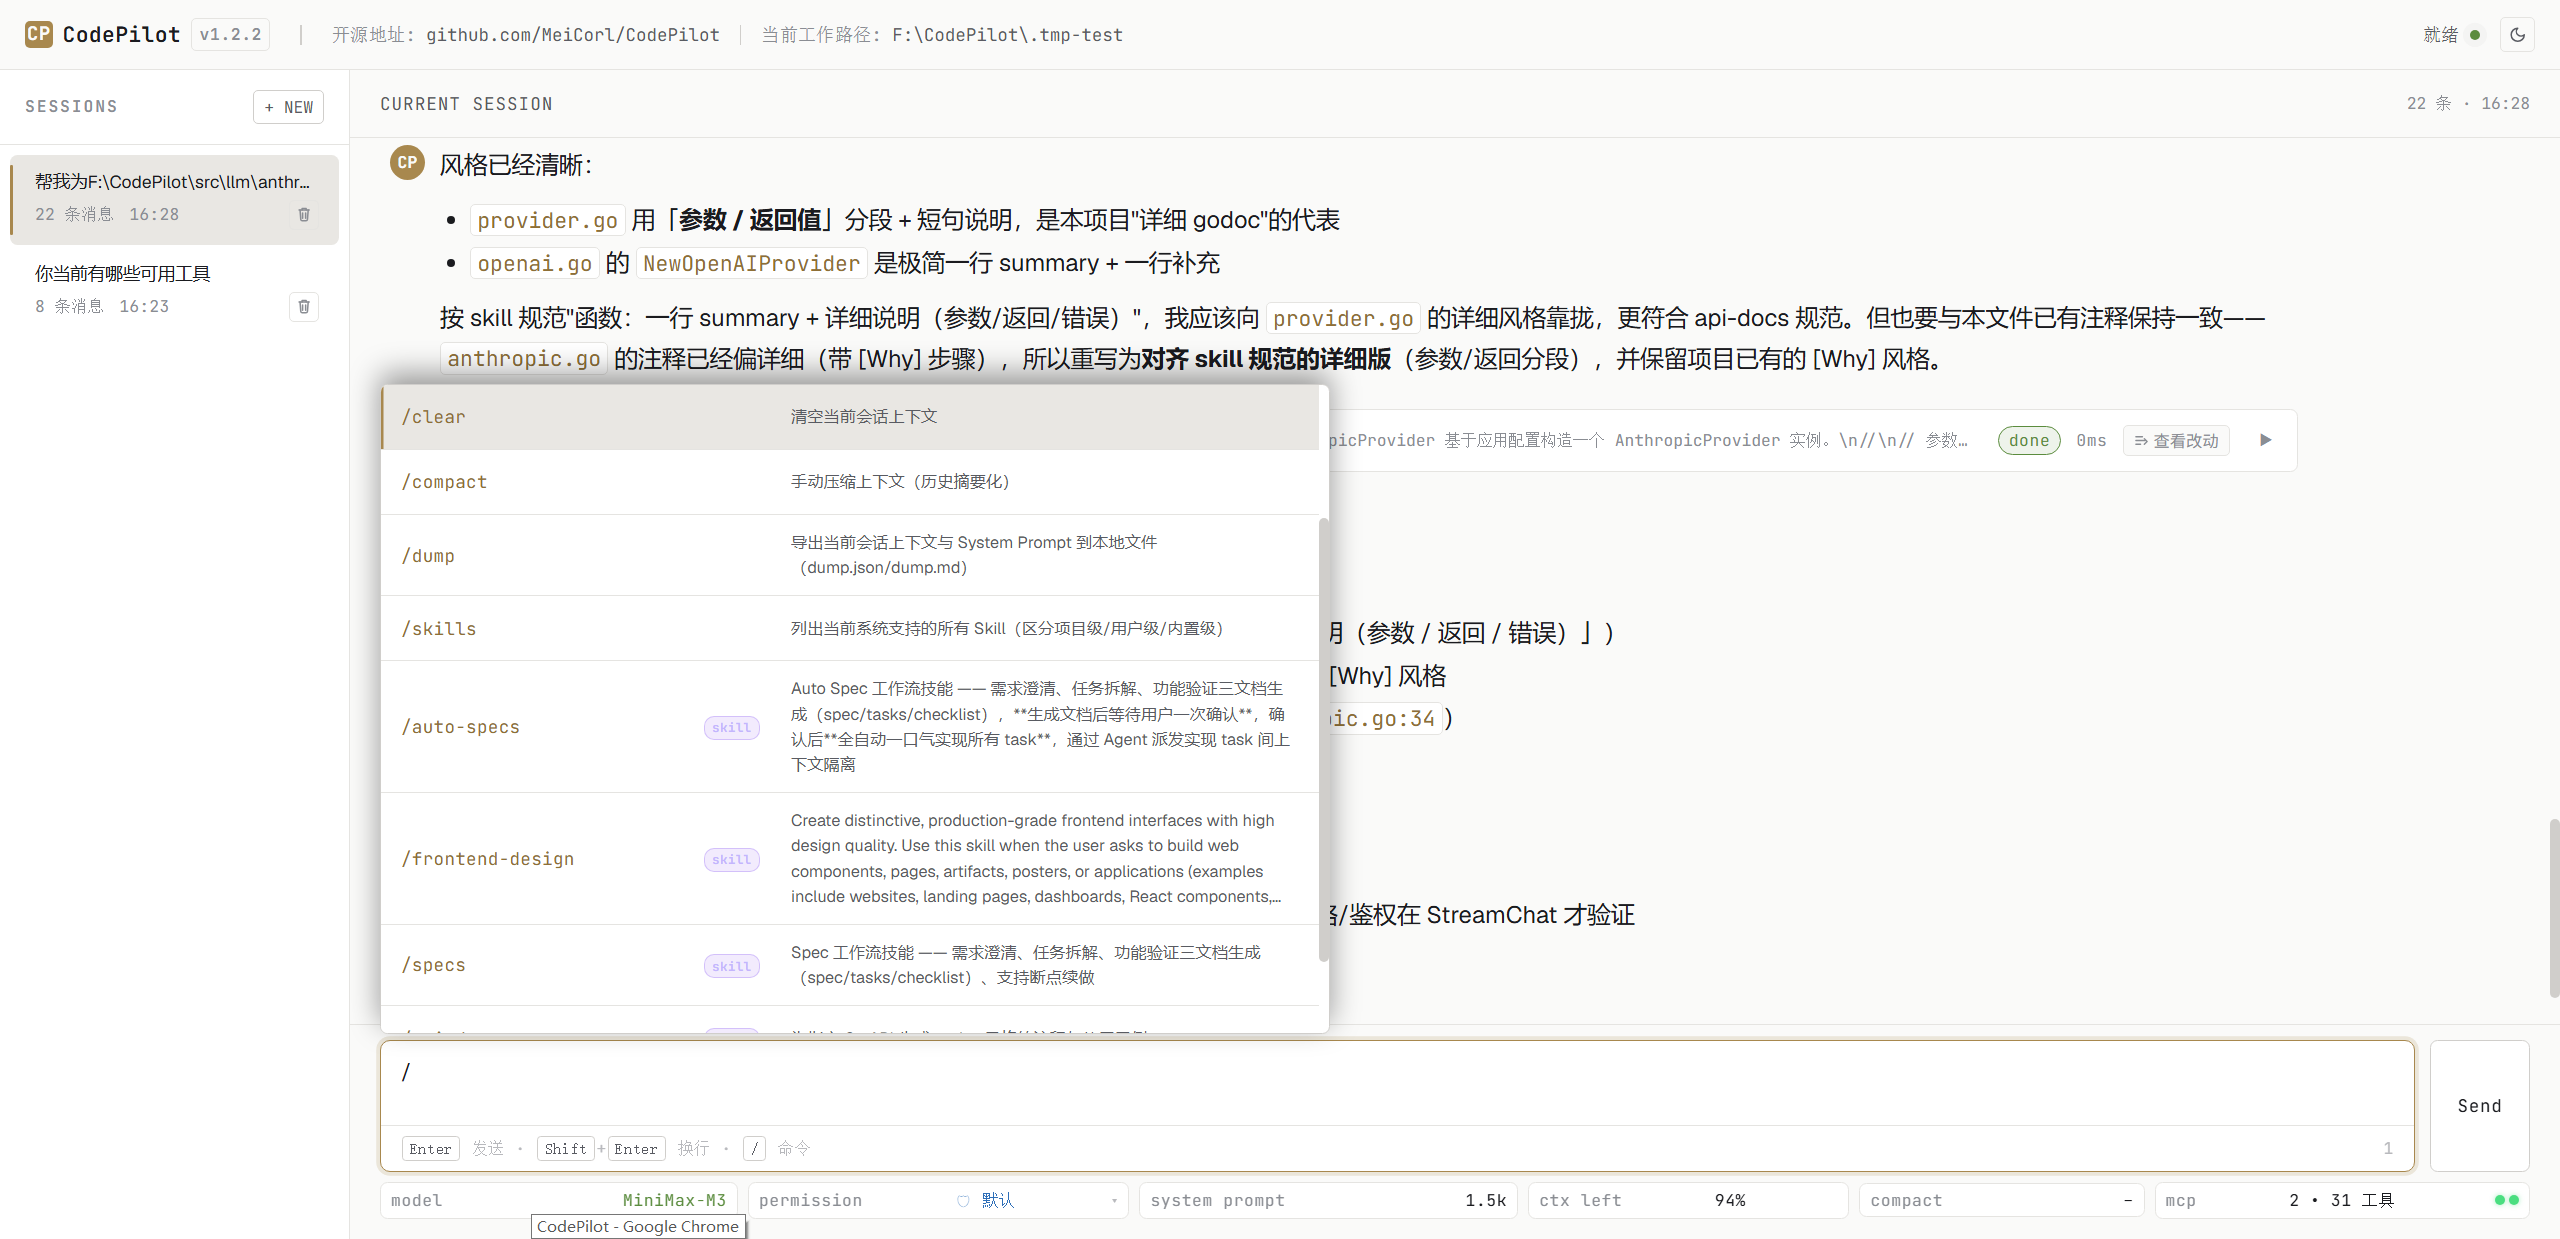
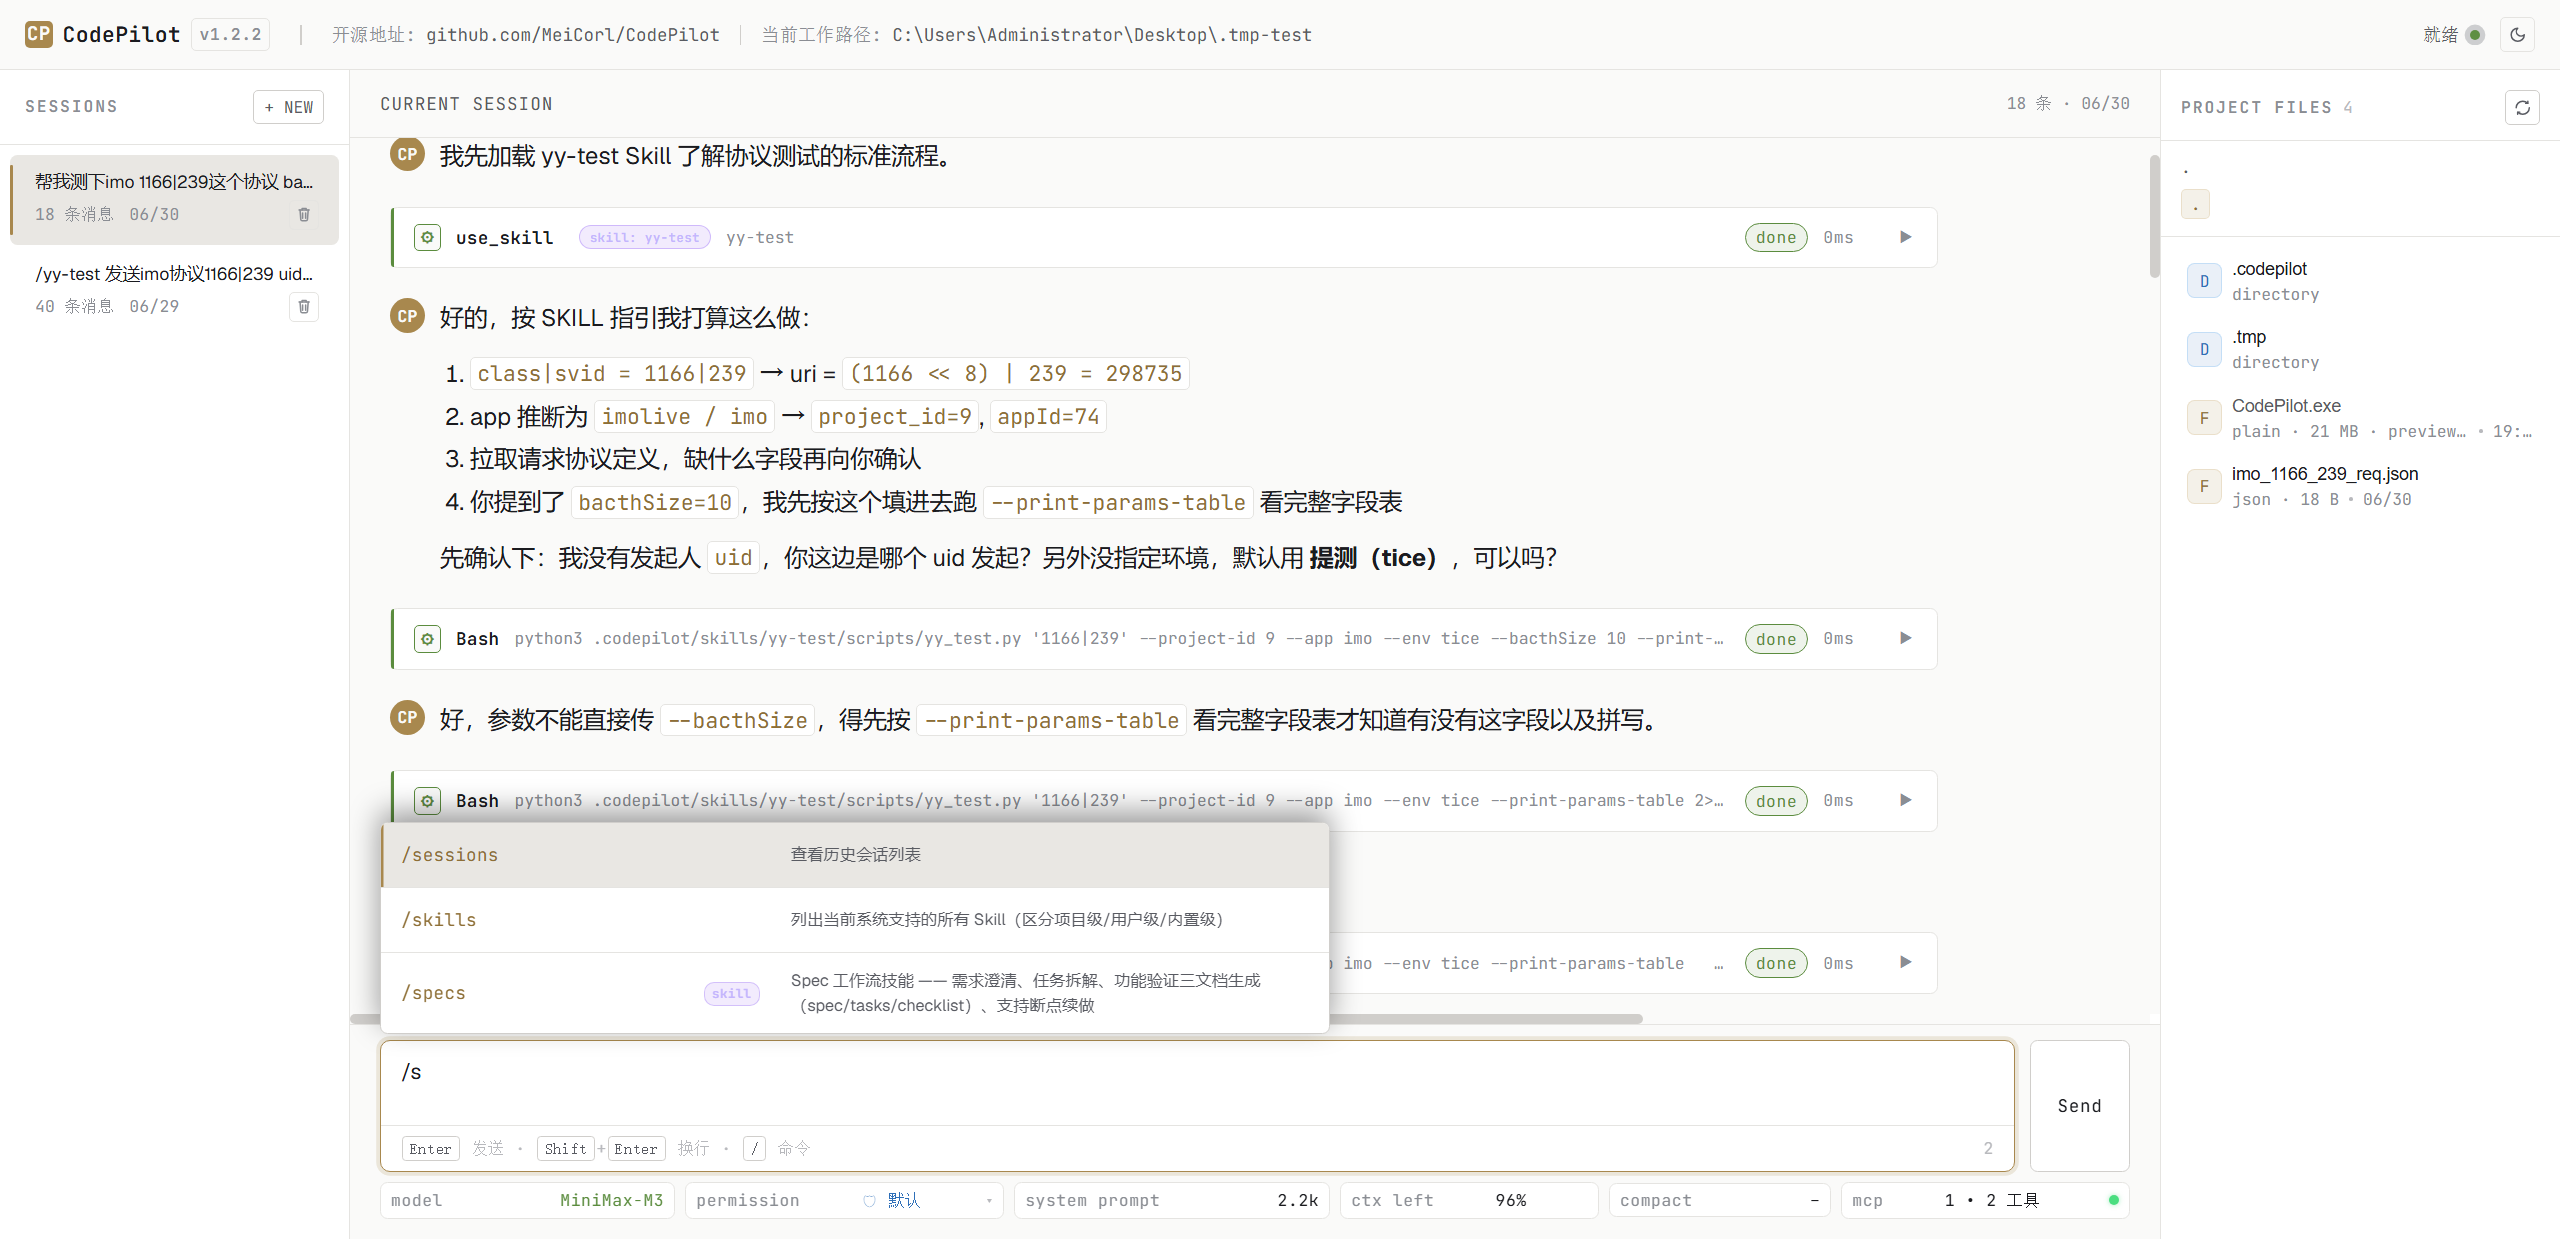
项目栏展示bug修复

diff --git a/src/internal/interaction/web/project_file.go b/src/internal/interaction/web/project_file.go
@@ -314,19 +314,29 @@ func statProjectDirEntry(entryAbs string, entry os.DirEntry, rootAbs string) (os
 	if err != nil {
 		return nil, false, false
 	}
-	if entry.Type()&os.ModeSymlink == 0 {
+	isLink := entry.Type()&os.ModeSymlink != 0 || info.Mode()&os.ModeSymlink != 0
+	if !isLink {
+		statInfo, err := os.Stat(entryAbs)
+		if err == nil && statInfo.IsDir() != info.IsDir() {
+			return statLinkedProjectDirEntry(entryAbs, info, rootAbs)
+		}
 		return info, info.IsDir(), true
 	}
+	return statLinkedProjectDirEntry(entryAbs, info, rootAbs)
+}
+
+func statLinkedProjectDirEntry(entryAbs string, fallback os.FileInfo, rootAbs string) (os.FileInfo, bool, bool) {
 	real, err := filepath.EvalSymlinks(entryAbs)
 	if err != nil {
-		return info, false, false
+		return fallback, false, false
 	}
+	real = filepath.Clean(real)
 	if !security.IsPathInside(real, rootAbs) {
-		return info, false, false
+		return fallback, false, false
 	}
 	realInfo, err := os.Stat(real)
 	if err != nil {
-		return info, false, false
+		return fallback, false, false
 	}
 	return realInfo, realInfo.IsDir(), true
 }